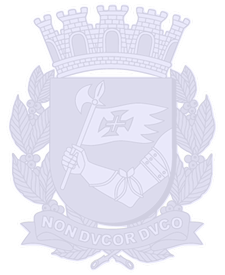
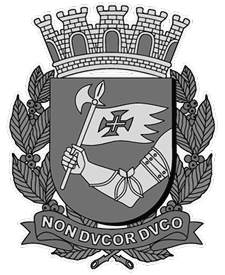
Ajuste layout

diff --git a/SME.ConectaFormacao.Infra.Dados/Templates/layout-certificado-codaf.html b/SME.ConectaFormacao.Infra.Dados/Templates/layout-certificado-codaf.html
@@ -9,20 +9,17 @@
             size: A4 landscape;
             margin: 0;
         }
-
         html, body {
-            margin: 0;
-            padding: 0;
-            background: #fff;
+            width: 100%;
+            height: 100%;
         }
 
         .pagina {
-            width: 1123px;
-            height: 794px;
             position: relative;
+            width: 297mm;
+            height: 210mm;
+            margin: 0 auto;
             overflow: hidden;
-            background: white;
-            font-family: Roboto, sans-serif;
         }
 
         /* IMAGENS (FUNDO) */
@@ -44,6 +41,7 @@
             left: 50%;
             transform: translate(-50%, -50%);
             z-index: 0;
+            opacity: 0.15;
         }
 
         .selo {
